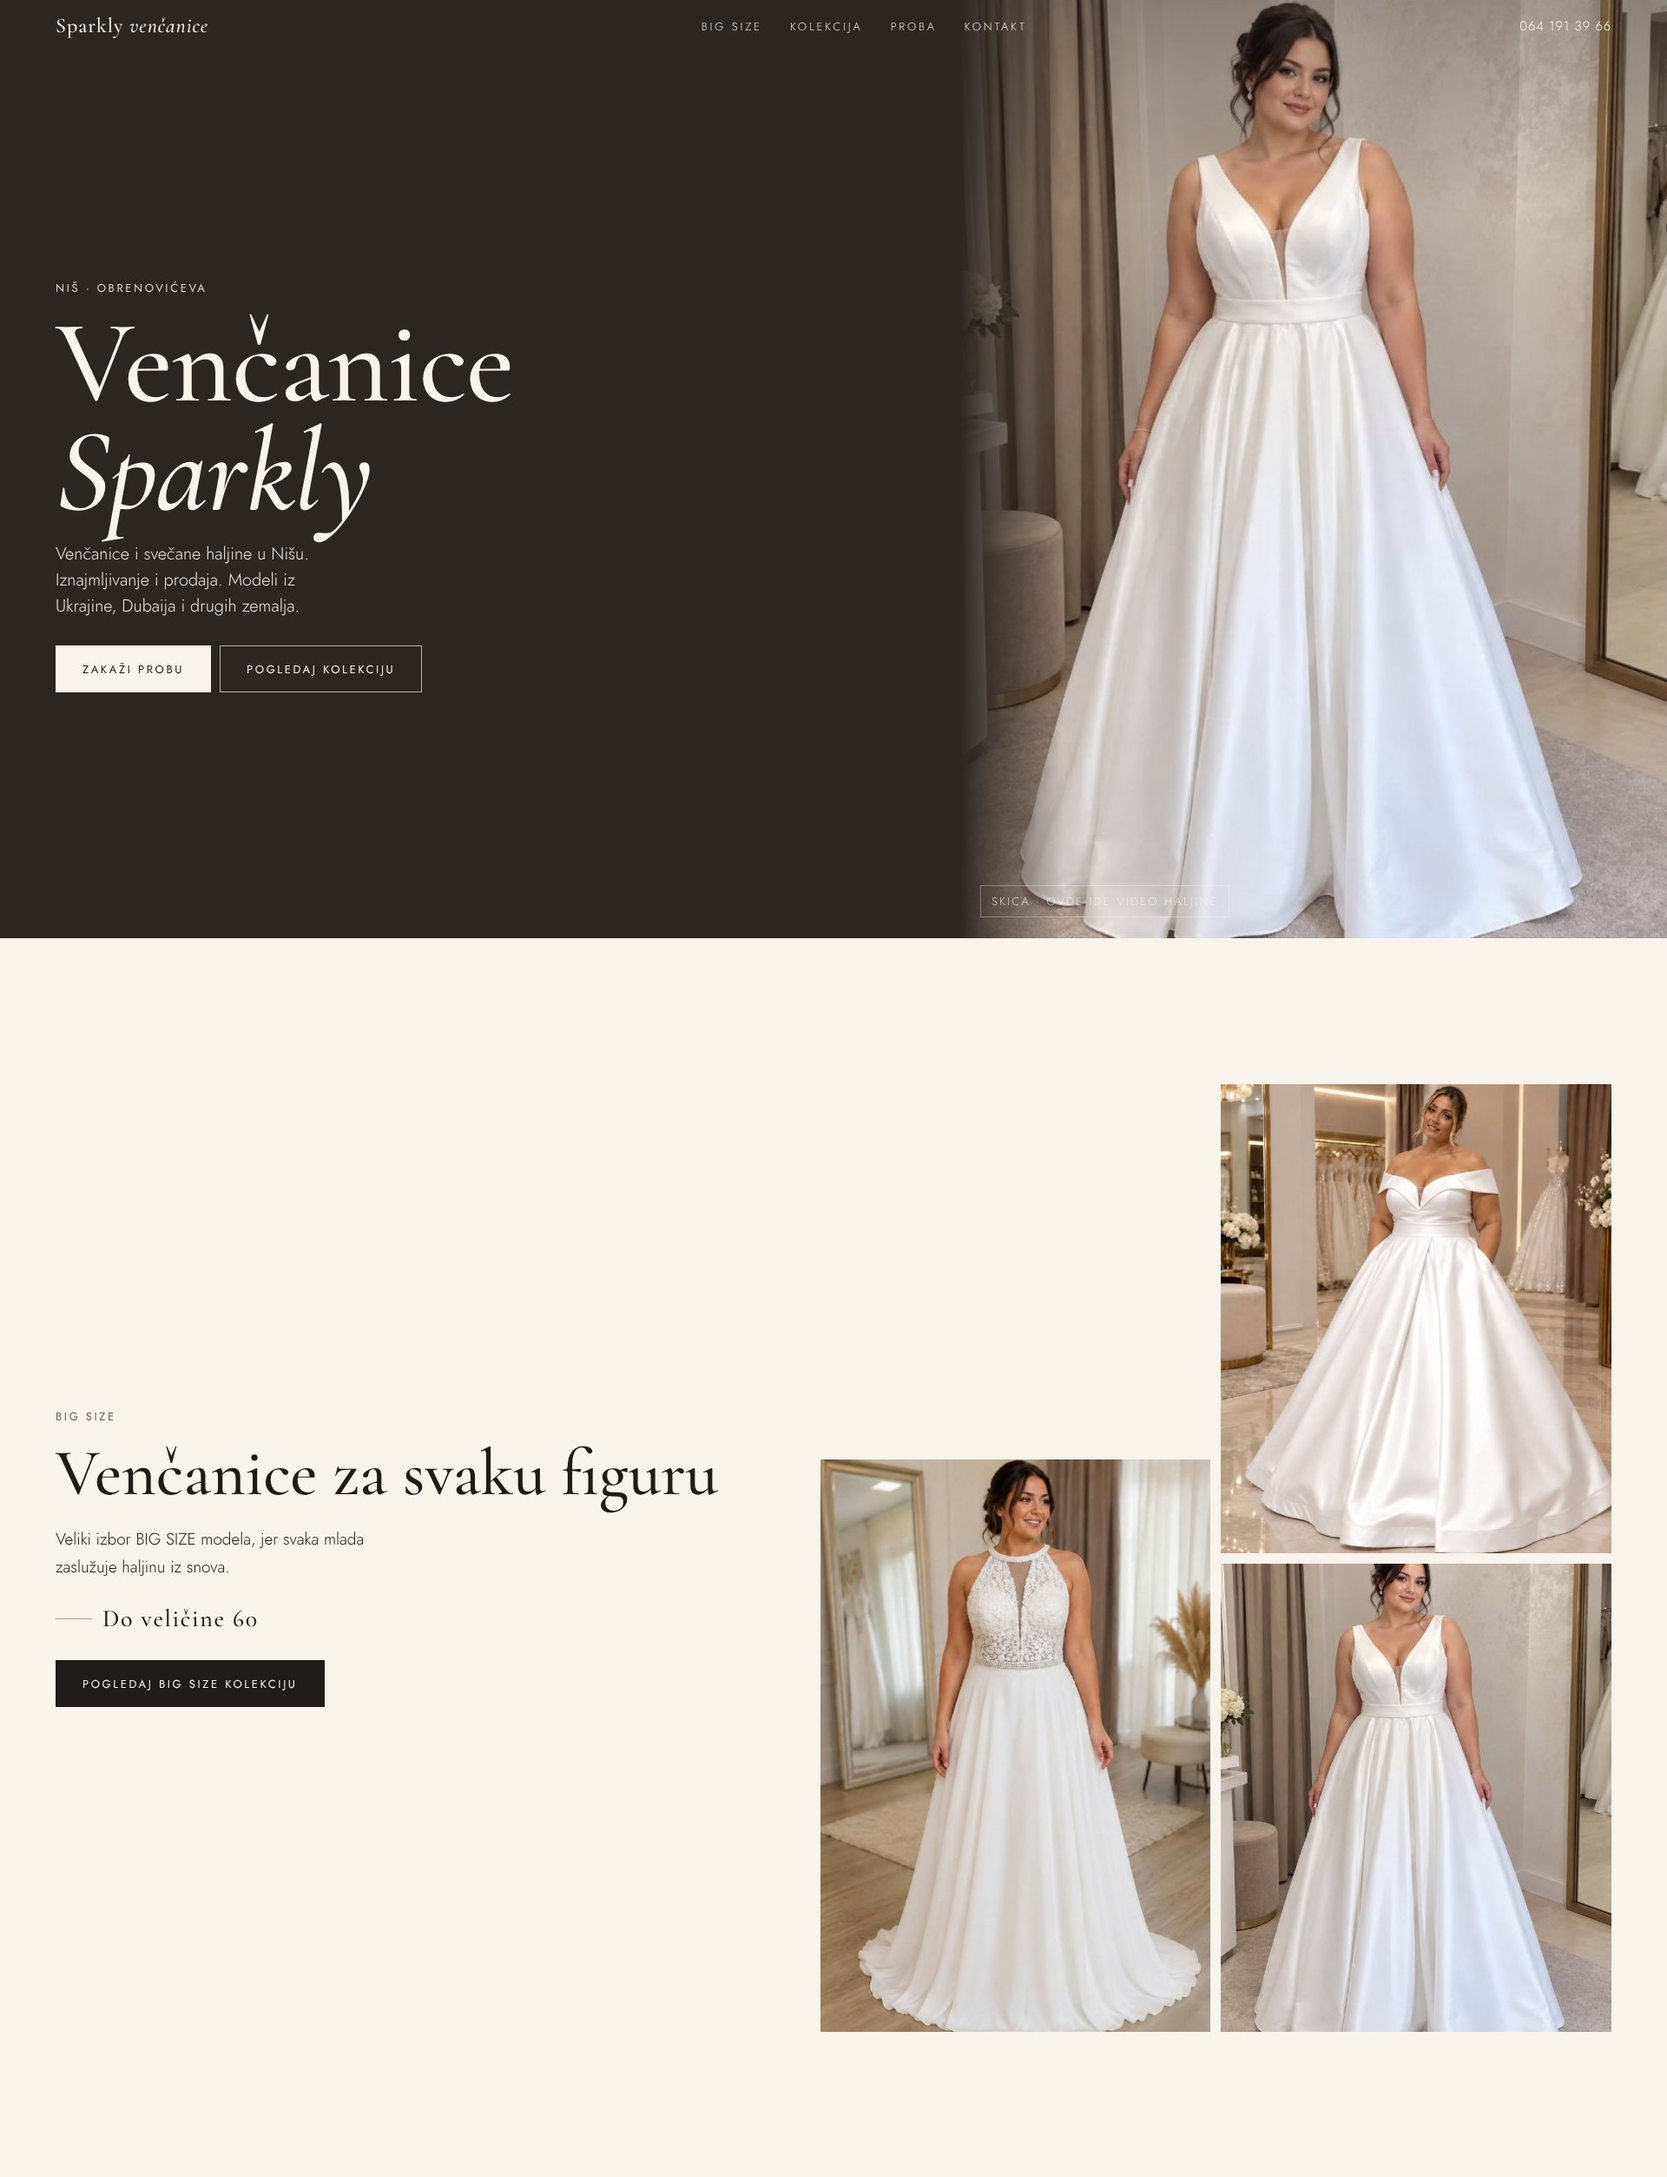
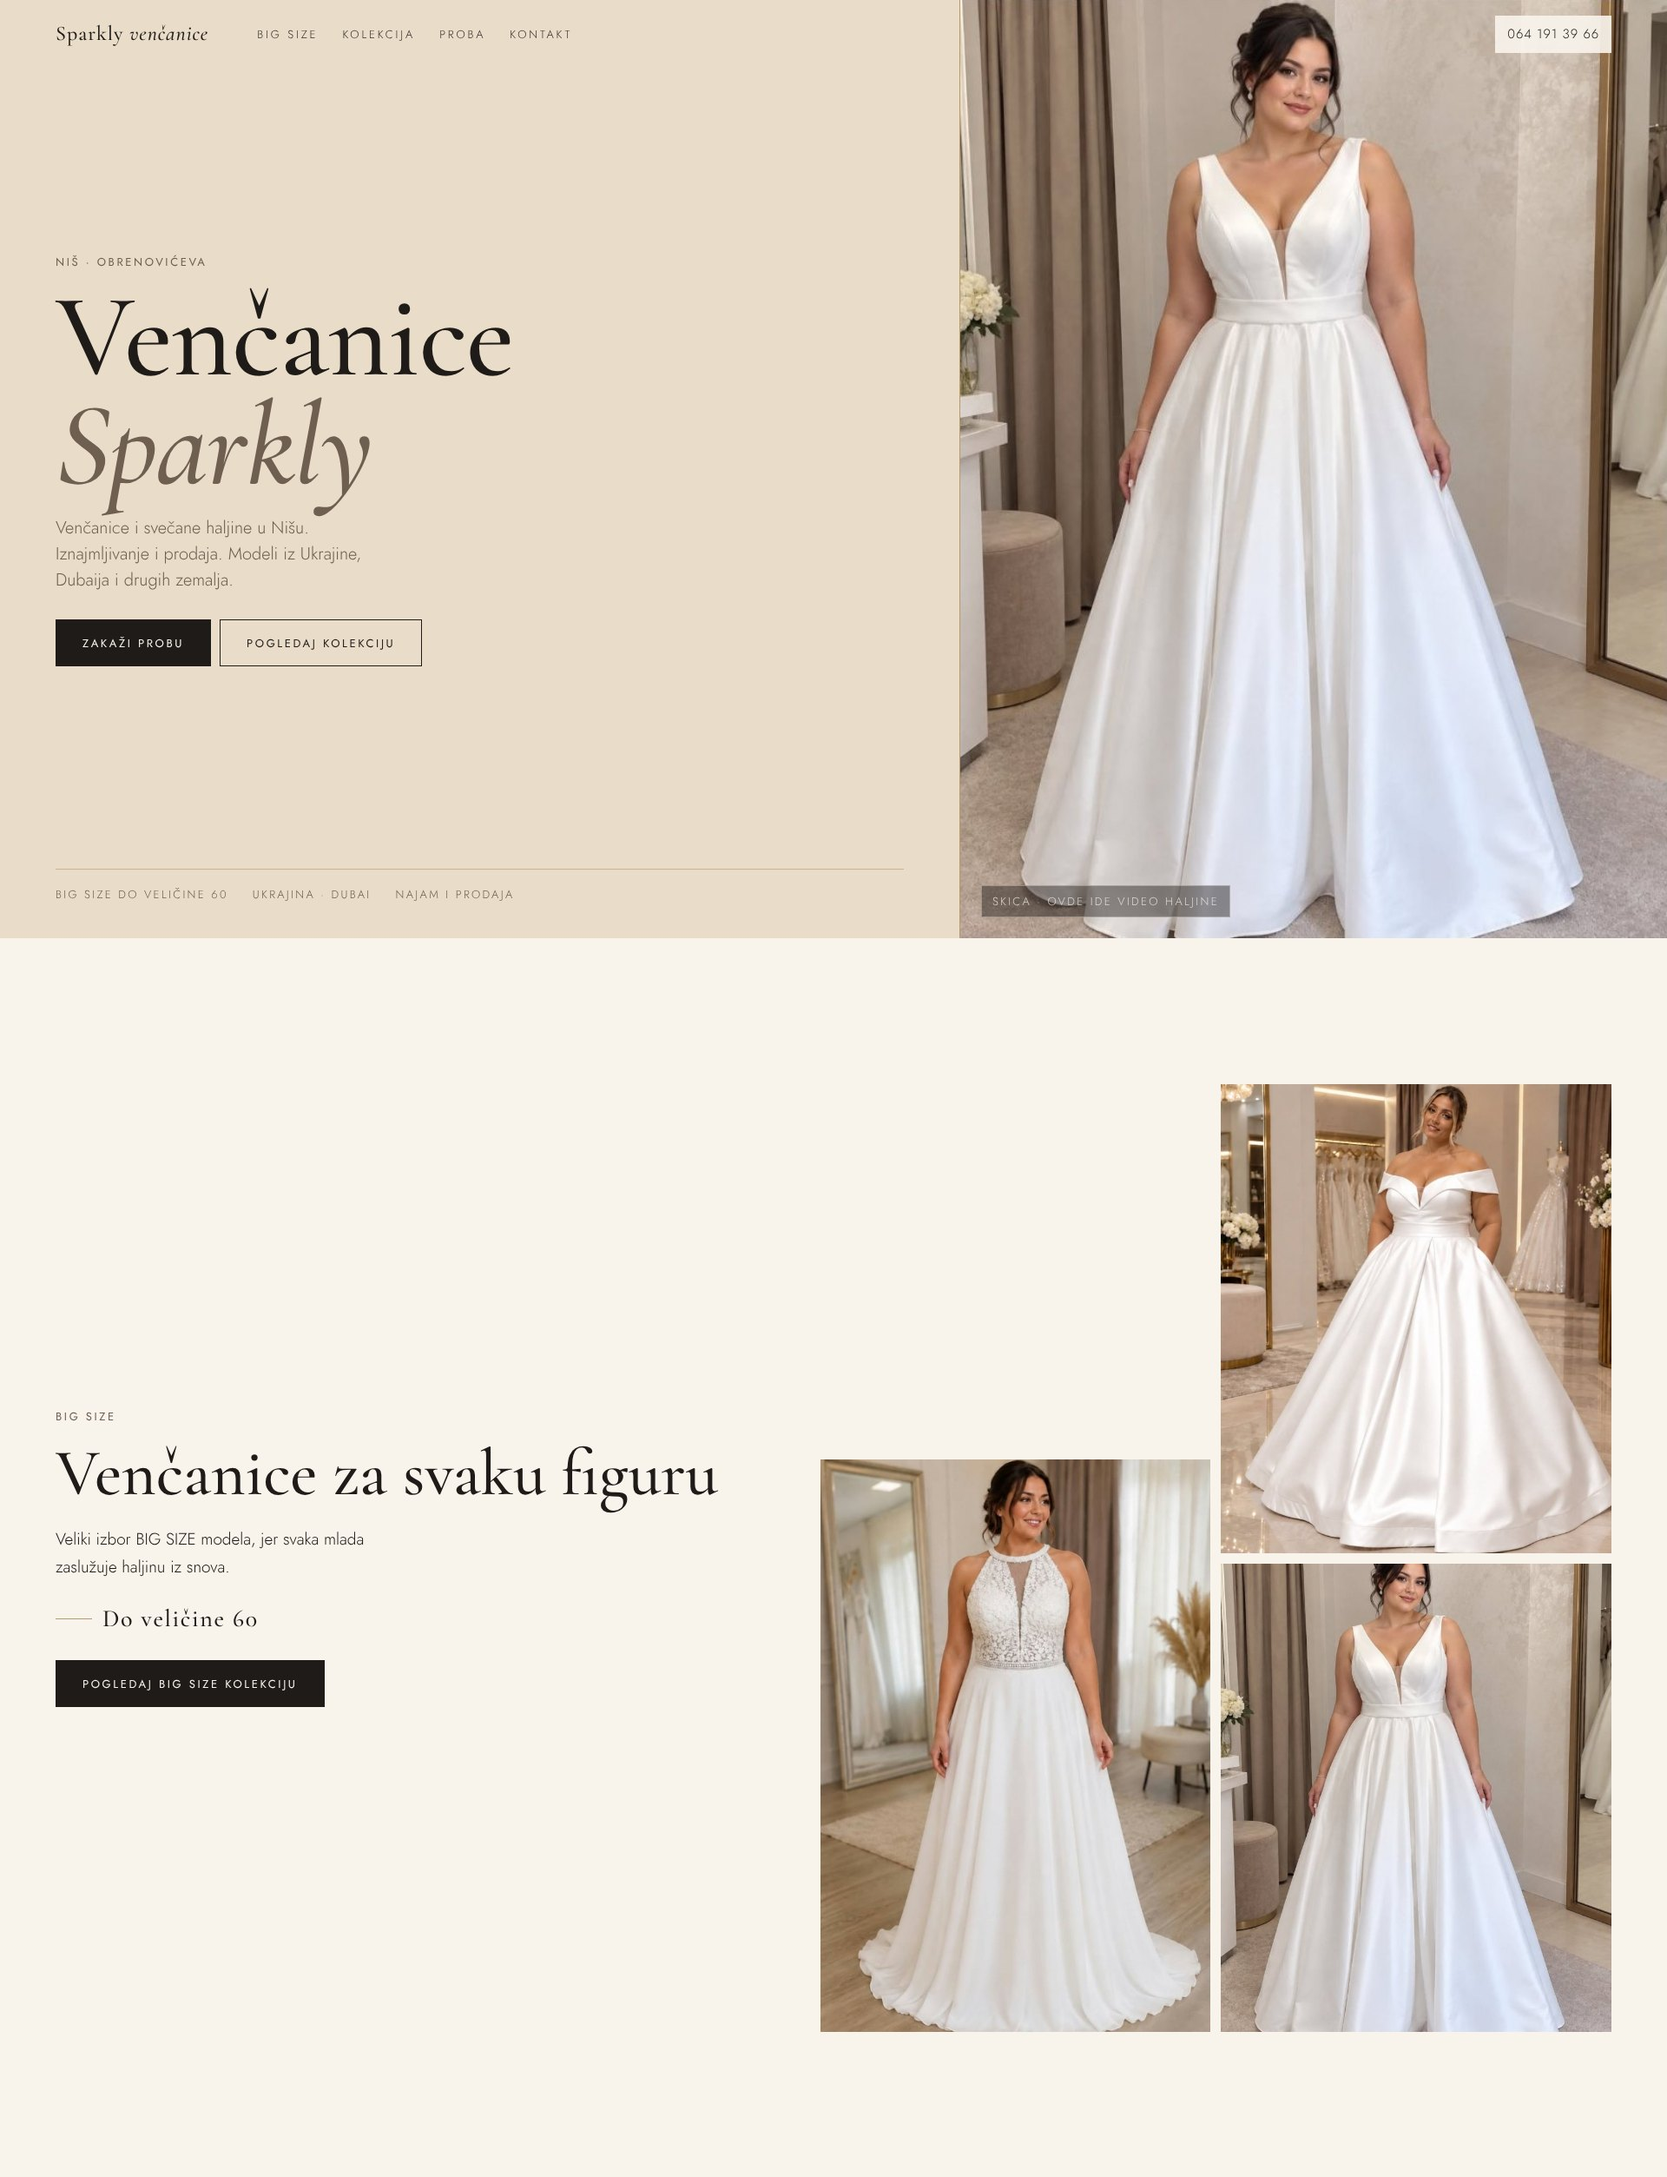
Sparkly: light champagne hero panel on desktop instead of dark fade
Claude-Session: https://claude.ai/code/session_01UWZxjZDZsRNAHBMSR73c6z

Changed region(s): [[0.0, 0.0, 1.0, 0.4358]]

diff --git a/sites/sparkly/index.html b/sites/sparkly/index.html
@@ -61,13 +61,25 @@ button{font:inherit;color:inherit}
 .hero .acts{display:flex;gap:10px;flex-wrap:wrap;margin-top:30px}
 .hero-pic{position:absolute;inset:0}
 @media (min-width:861px){
-  .hero{align-items:center}
-  .hero-pic{left:auto;width:min(calc(100svh * 720 / 954),56%)}
+  .hero{--pw:min(calc(100svh * 720 / 954),56%);align-items:center;background:var(--champagne);color:var(--ink)}
+  .hero-pic{left:auto;width:var(--pw);border-left:1px solid var(--gold)}
   .hero video,.hero .poster{object-position:50% 0}
-  .hero::after{background:linear-gradient(90deg,#2b2621 0,#2b2621 calc(100% - min(calc(100svh * 720 / 954),56%)),rgba(43,38,33,0) calc(100% - min(calc(100svh * 720 / 954),56%) + 120px)),linear-gradient(180deg,rgba(30,27,24,.3) 0,rgba(30,27,24,0) 22%)} /* taste-skill-ignore: scrim blends the photo into the text panel */
-  .hero-in{padding:120px var(--m) 80px;max-width:calc(100% - min(calc(100svh * 720 / 954),56%) + 40px)}
-  .hero .vid-note{right:auto;left:24px;top:auto;bottom:24px}
+  .hero::after{display:none}
+  .hero-in{padding:110px var(--m) 130px;max-width:calc(100% - var(--pw))}
+  .hero .caps{color:var(--taupe-ink)}
+  .hero p.sub{color:var(--taupe-ink);max-width:34ch}
+  .hero h1 i{color:var(--taupe-ink)}
+  .hero .btn--light{background:var(--ink);color:var(--ivory);border-color:var(--ink)}
+  .hero .btn--light:hover{background:#000}
+  .hero .btn--ghost-light{color:var(--ink);border-color:var(--ink)}
+  .hero .btn--ghost-light:hover{background:var(--ink);color:var(--ivory)}
+  .hero .vid-note{right:auto;left:24px;top:auto;bottom:24px;background:rgba(30,27,24,.45)}
+  .top{color:var(--ink);justify-content:flex-start;gap:clamp(28px,3vw,56px)}
+  .top nav{gap:28px}
+  .hero-facts{display:flex!important;position:absolute;z-index:1;left:var(--m);right:calc(var(--pw) + var(--m));bottom:40px;gap:28px;padding:18px 0 0;border-top:1px solid rgba(183,154,107,.6);list-style:none;margin:0;font-size:.8125rem;letter-spacing:.18em;text-transform:uppercase;color:var(--taupe-ink)}
+  .top .tel{margin-left:auto;background:rgba(248,244,236,.9);padding:9px 14px}
 }
+.hero-facts{display:none}
 .vid-note{position:absolute;z-index:2;top:84px;right:var(--m);font-size:.8125rem;letter-spacing:.18em;text-transform:uppercase;color:rgba(248,244,236,.75);border:1px solid rgba(248,244,236,.35);padding:7px 12px} /* taste-skill-ignore: sketch annotation */
 
 /* BIG SIZE */
@@ -231,6 +243,7 @@ figcaption{margin-top:10px}
     <video autoplay muted loop playsinline preload="none" poster="img/big-2.jpg" aria-hidden="true"><source src="video/hero.mp4" type="video/mp4"></video>
     <span class="vid-note">Skica · ovde ide video haljine</span>
   </div>
+  <ul class="hero-facts" aria-hidden="true"><li>Big size do veličine 60</li><li>Ukrajina · Dubai</li><li>Najam i prodaja</li></ul>
   <div class="hero-in">
     <p class="caps rise">Niš · Obrenovićeva</p>
     <h1 id="h1" class="rise">Venčanice<br><i>Sparkly</i></h1>
